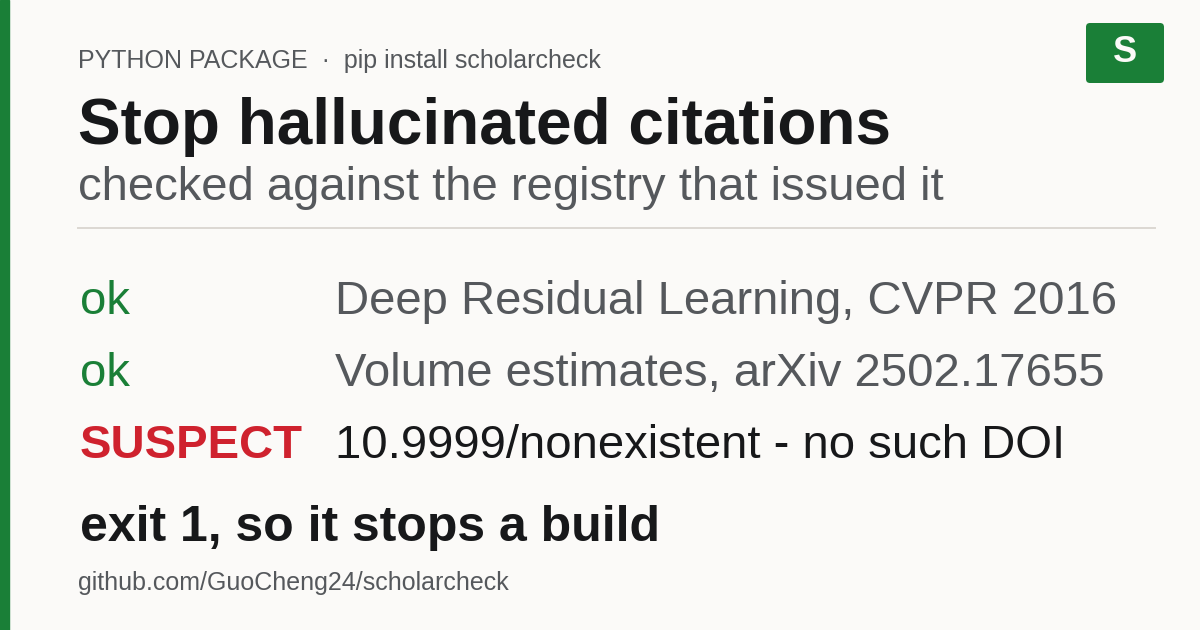
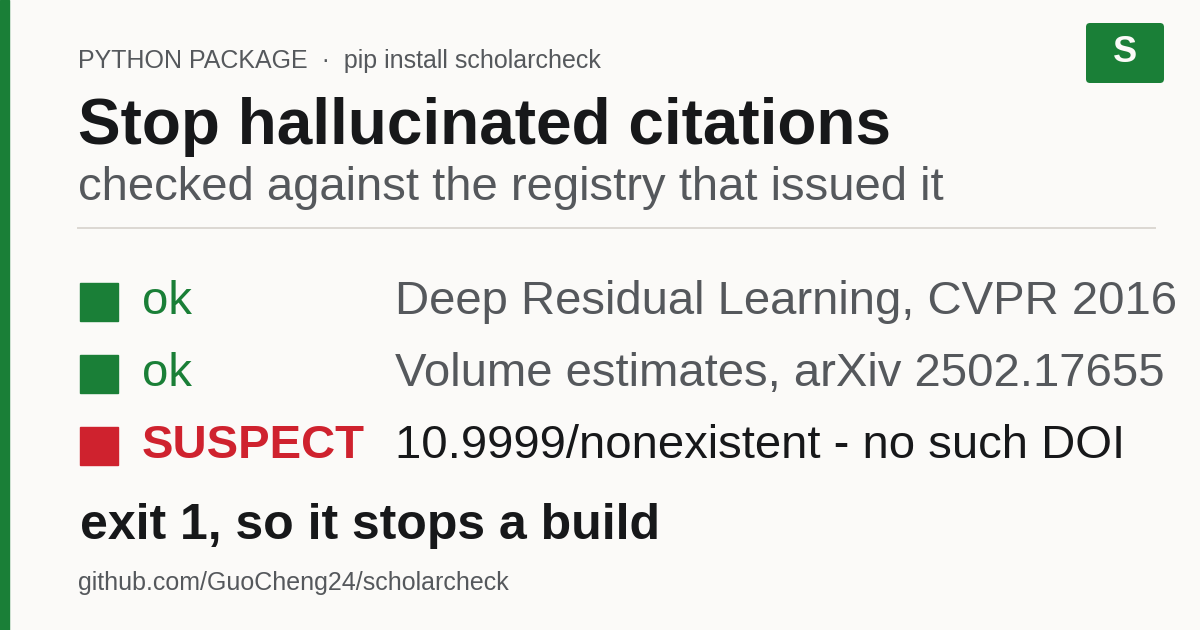
Give the card something to look at, not only something to read
Counting what each card actually draws turned up four that render no data
element at all: they were tables of text with a headline over them, which is
why they read as thinner than the rest even though every word on them is
true and legible.

This one now carries a mark drawn from its own numbers beside the words. The
addition is small on purpose - the message is still the text - but a reader
scanning a feed sees a shape first, and there was none.

diff --git a/.github/assets/make_social_preview.py b/.github/assets/make_social_preview.py
@@ -32,17 +32,19 @@ if len(REFS) != 3:
 
 
 def chart(ax, accent):
+    import matplotlib.pyplot as plt
     y = 3.28
     for r in REFS:
         state, note = VERDICT[r["key"]]
         bad = state != "ok"
         colour = "#cf222e" if bad else "#1a7f37"
-        ax.text(0.80, y, state, fontsize=34, fontweight="bold" if bad else "normal",
+        ax.add_patch(plt.Rectangle((0.80, y - 0.19), 0.38, 0.38, color=colour, zorder=3))
+        ax.text(1.42, y, state, fontsize=34, fontweight="bold" if bad else "normal",
                 color=colour, family=SANS, va="center")
-        ax.text(3.35, y, note, fontsize=34,
+        ax.text(3.95, y, note, fontsize=34,
                 color="#17181a" if bad else "#55585c", family=SANS, va="center")
         y -= 0.72
-    ax.text(0.80, y - 0.10, "exit 1, so it stops a build", fontsize=36, fontweight="bold",
+    ax.text(0.80, y - 0.08, "exit 1, so it stops a build", fontsize=36, fontweight="bold",
             color="#17181a", family=SANS, va="center")
 
 
